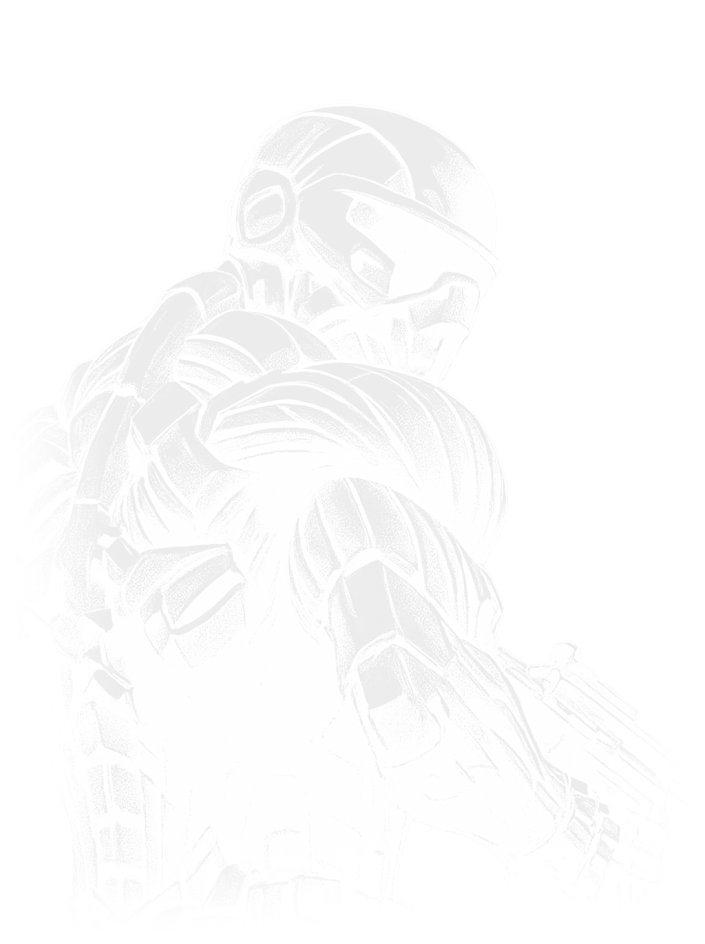
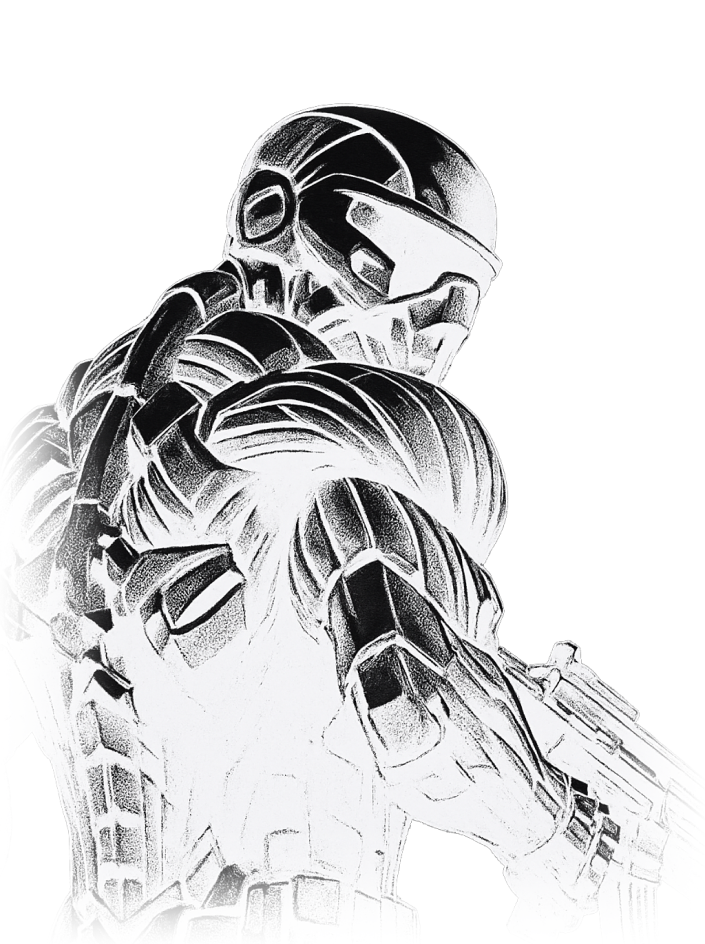
style: update OtherModsBg background
replaced background files in OtherModsBg.tsx

applied opacity-15 class for visual effect

diff --git a/src/components/OtherModsBg.tsx b/src/components/OtherModsBg.tsx
@@ -4,7 +4,7 @@ export default function OtherModsBg() {
 	return (
 		<section
 			id='otherModsBg'
-			className='order-1 xl:order-2 flex-1 flex flex-col justify-start items-center'>
+			className='order-1 xl:order-2 flex-1 flex flex-col justify-start items-center opacity-15'>
 			<Image
 				src='/img/othermods/mobile.png'
 				alt=''
